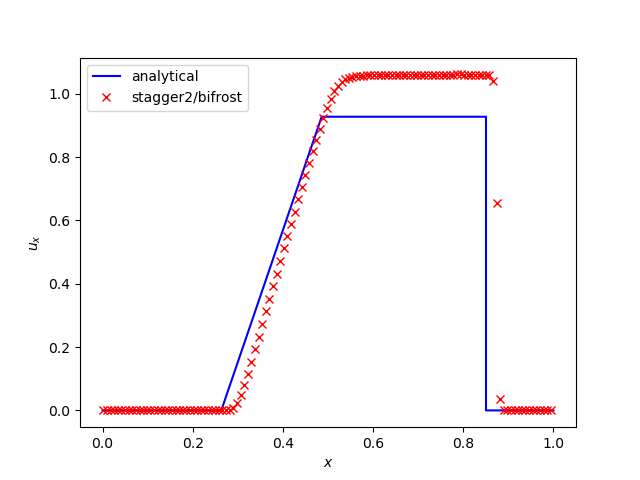
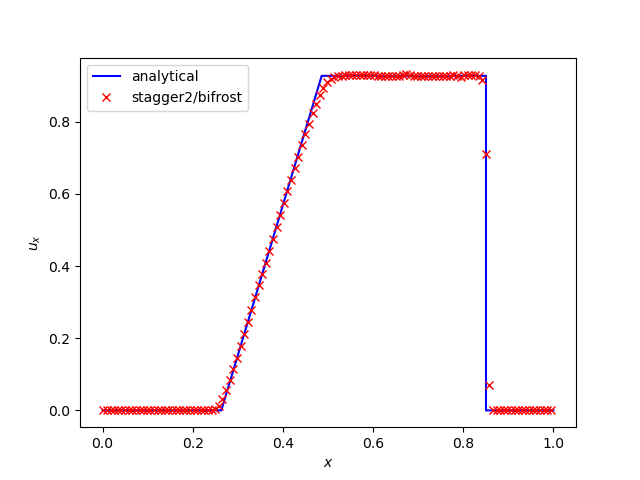
output comming from test suite Dispatch-Bifrost develop build #81

diff --git a/docs/tables/brio-wu.md b/docs/tables/brio-wu.md
@@ -1,20 +1,20 @@
 ## brio-wu errors
 | Quantity | Absolute error | Relative error |
 | -------- | --------- | --------- |
-| bx | 0.0 | 0.0 |
-| by | 0.07238664884188124 | 0.08227602958678822 |
-| bz | 0.0 | -- |
-| density | 0.052892857225640785 | 0.07765971845709299 |
-| e | 0.11473272305469155 | 0.16132484425958535 |
-| ed | 0.2971984774551708 | 0.2485987174248368 |
-| ee | 0.2971984774551708 | 0.2485987174248368 |
-| emag | 0.04759074078828218 | 0.06921384959820222 |
-| magnetic_field_x | 0.0 | 0.0 |
-| magnetic_field_y | 0.07238664884188124 | 0.08227602958678822 |
-| magnetic_field_z | 0.0 | -- |
-| px | 0.0520543307393854 | 0.3014534644188872 |
-| py | 0.09469005070279439 | 0.3002270212017368 |
-| pz | 0.0 | -- |
-| velocity_x | 0.1635262810663585 | 0.453469619420571 |
-| velocity_y | 0.20594490903873813 | 0.2828089689355098 |
-| velocity_z | 0.0 | -- |
+| S | 0.0075977159765457485 | 0.00590274630503452 |
+| bx | 0.0002452133366593911 | 0.0003269529060341493 |
+| by | 0.0046968260525050605 | 0.005386796421010884 |
+| bz | 9.238534402870136e-06 | 1.0 |
+| density | 0.0006006391893820991 | 0.0008796784603811436 |
+| e | 0.0015435967601420345 | 0.002338904541504562 |
+| ee | 0.00923474009392035 | 0.008784374515208198 |
+| magnetic_field_x | 0.0002452133366593911 | 0.0003269529060341493 |
+| magnetic_field_y | 0.0046968260525050605 | 0.005386796421010884 |
+| magnetic_field_z | 9.238534402870136e-06 | 1.0 |
+| p1 | 0.0009061932540986617 | 0.004950258897624078 |
+| p2 | 0.0014537854816169056 | 0.004258025705270786 |
+| p3 | 3.6921035628442633e-06 | 1.0 |
+| temperature | 0.00923474009392035 | 0.008784374515208198 |
+| velocity_x | 0.00754610379153755 | 0.023259699443737566 |
+| velocity_y | 0.012302228703900065 | 0.018460194300229642 |
+| velocity_z | 3.0276878112345572e-05 | 1.0 |

diff --git a/docs/index.md b/docs/index.md
@@ -1,7 +1,7 @@
 ## Welcome to Dispatch-Bifrost CI pages 
 
 Here are the results from the last run associated with 
-**Dispatch-Bifrost current_sheet2, build #11**
+**Dispatch-Bifrost develop, build #81**
 
 ## Brio & Wu results
 
